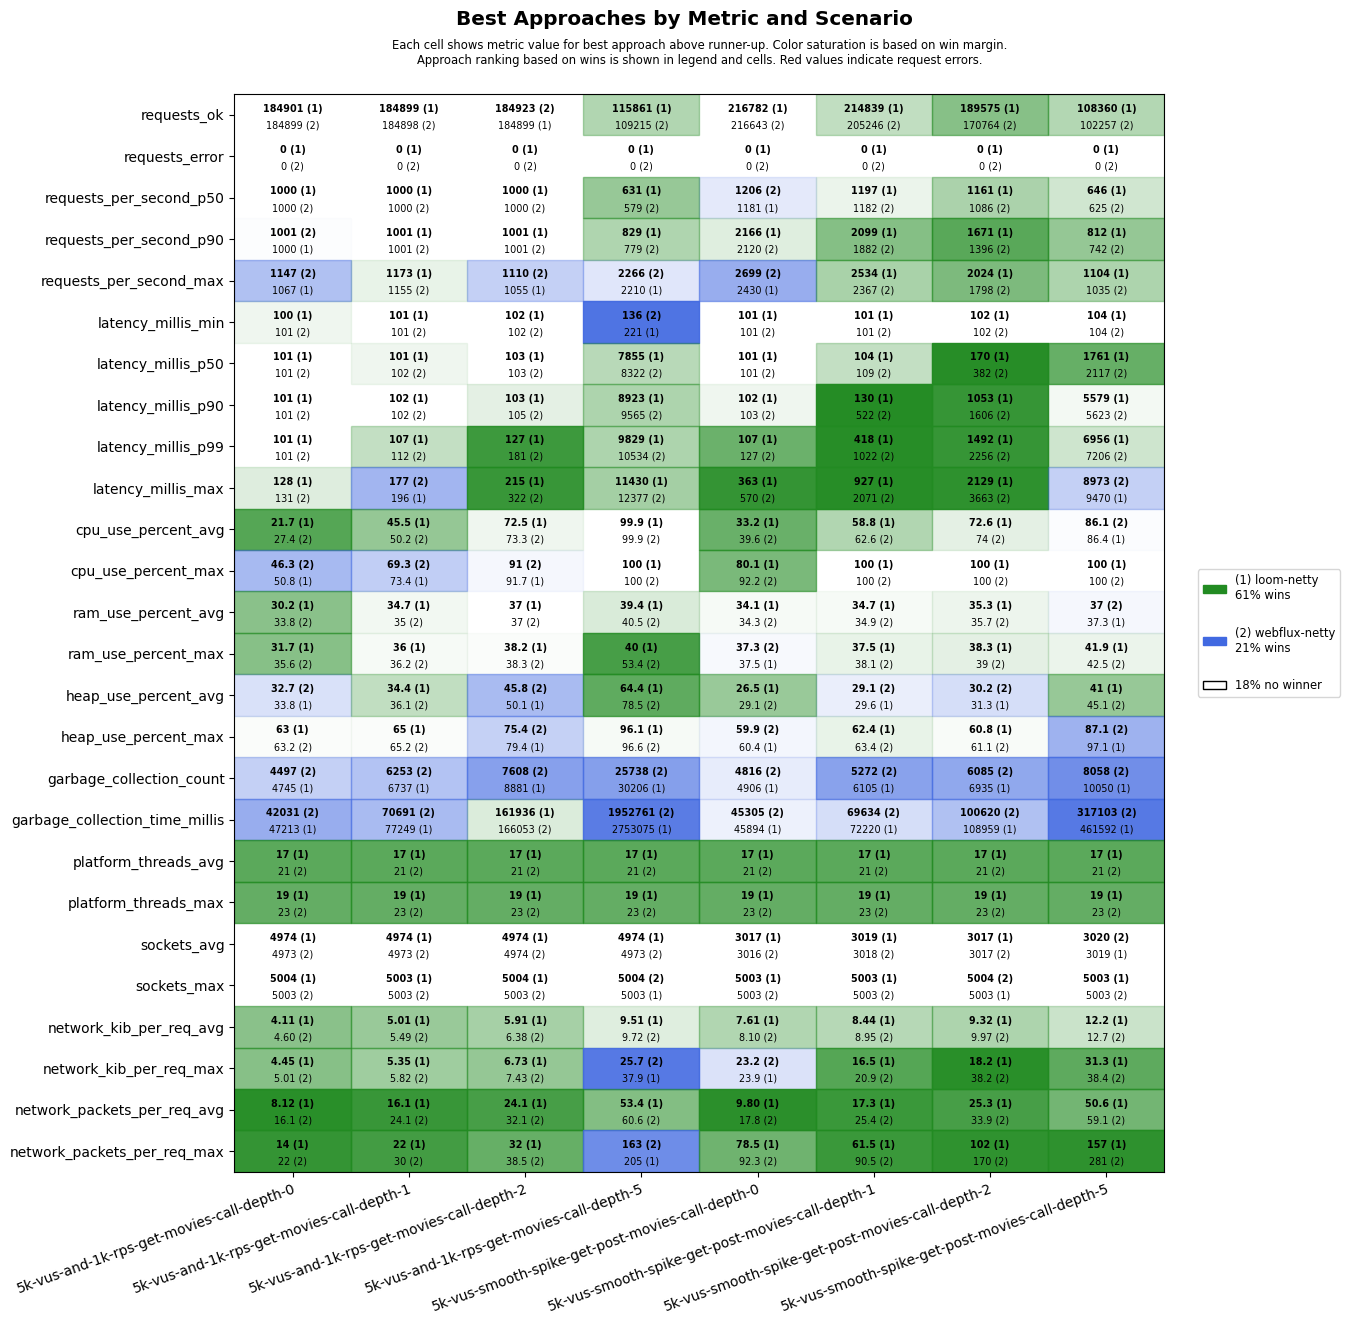
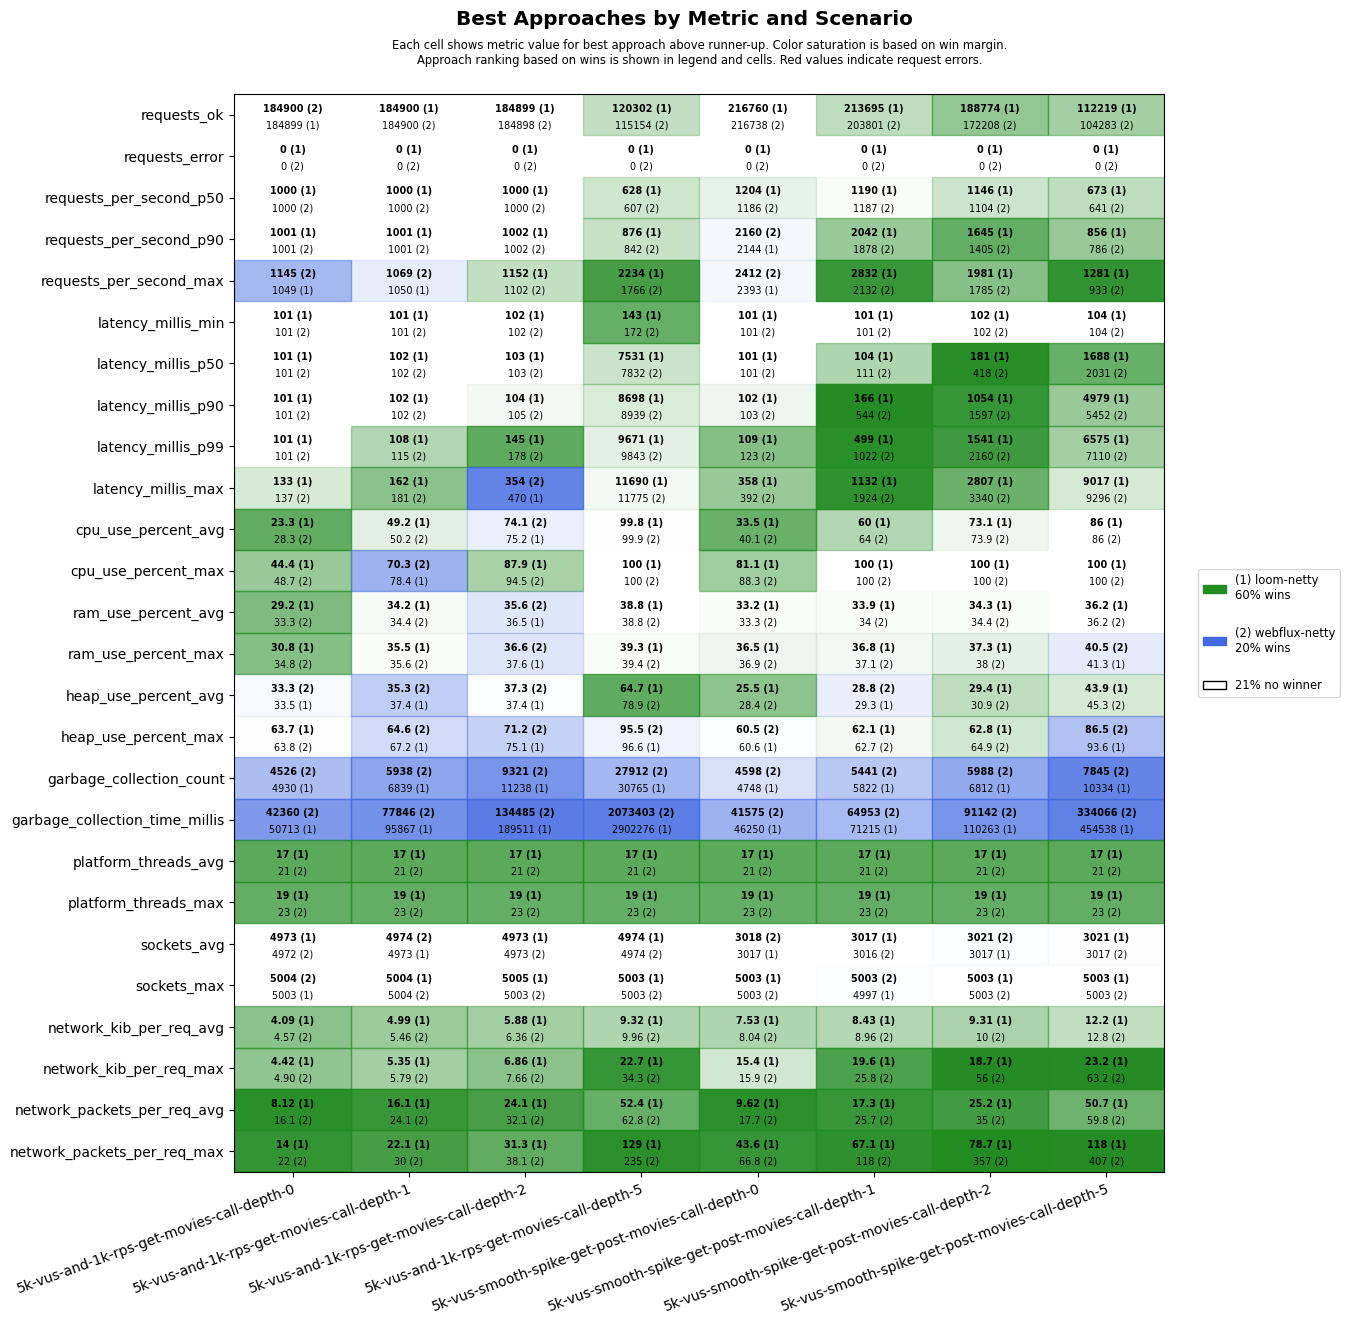
Apply automatic changes

diff --git a/results/ci/scenarios-deep-call-stack/ubuntu-24.04/java-21/results.md b/results/ci/scenarios-deep-call-stack/ubuntu-24.04/java-21/results.md
@@ -4,23 +4,23 @@
 
 | **Name**                | **Value** |
 |-------------------------|-----------|
-| **Start (UTC)** | 2025-05-02 17:24:19 |
-| **End (UTC)** | 2025-05-02 18:18:47 |
-| **Duration (hh:mm:ss)** | 00:54:28 |
+| **Start (UTC)** | 2025-07-02 17:26:43 |
+| **End (UTC)** | 2025-07-02 18:21:12 |
+| **Duration (hh:mm:ss)** | 00:54:29 |
 
 ## System Specs
 
 | **Name**                | **Value** |
 |-------------------------|-----------|
 | **Java** | OpenJDK 64-Bit Server VM Corretto-21.0.7.6.1 (build 21.0.7+6-LTS, mixed mode, sharing) |
-| **Spring Boot** | 3.4.5 |
+| **Spring Boot** | 3.5.3 |
 | **Python** | 3.12.3 |
 | **OS** | Ubuntu 24.04.2 LTS |
-| **Kernel** | 6.11.0-1012-azure |
+| **Kernel** | 6.11.0-1015-azure |
 | **CPU** | AMD EPYC 7763 64-Core Processor |
 | **CPU Cores** | 4 |
 | **RAM** | 15Gi total, 12Gi available |
-| **Disk** | 159G total, 101G available |
+| **Disk** | 159G total, 104G available |
 
 ## Scenarios
 
